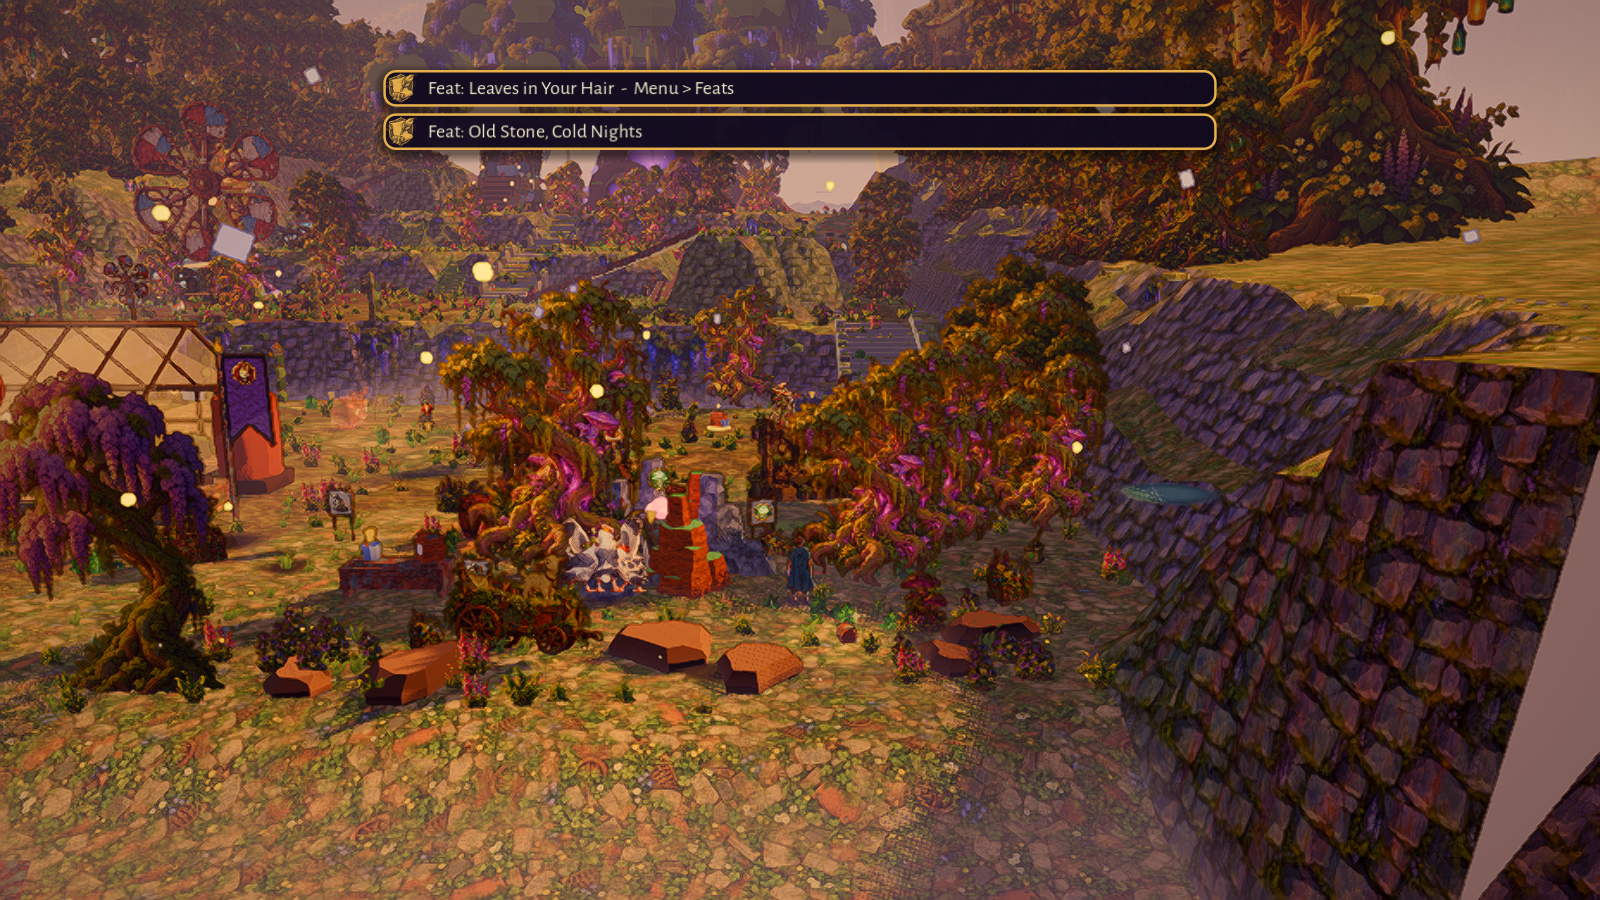
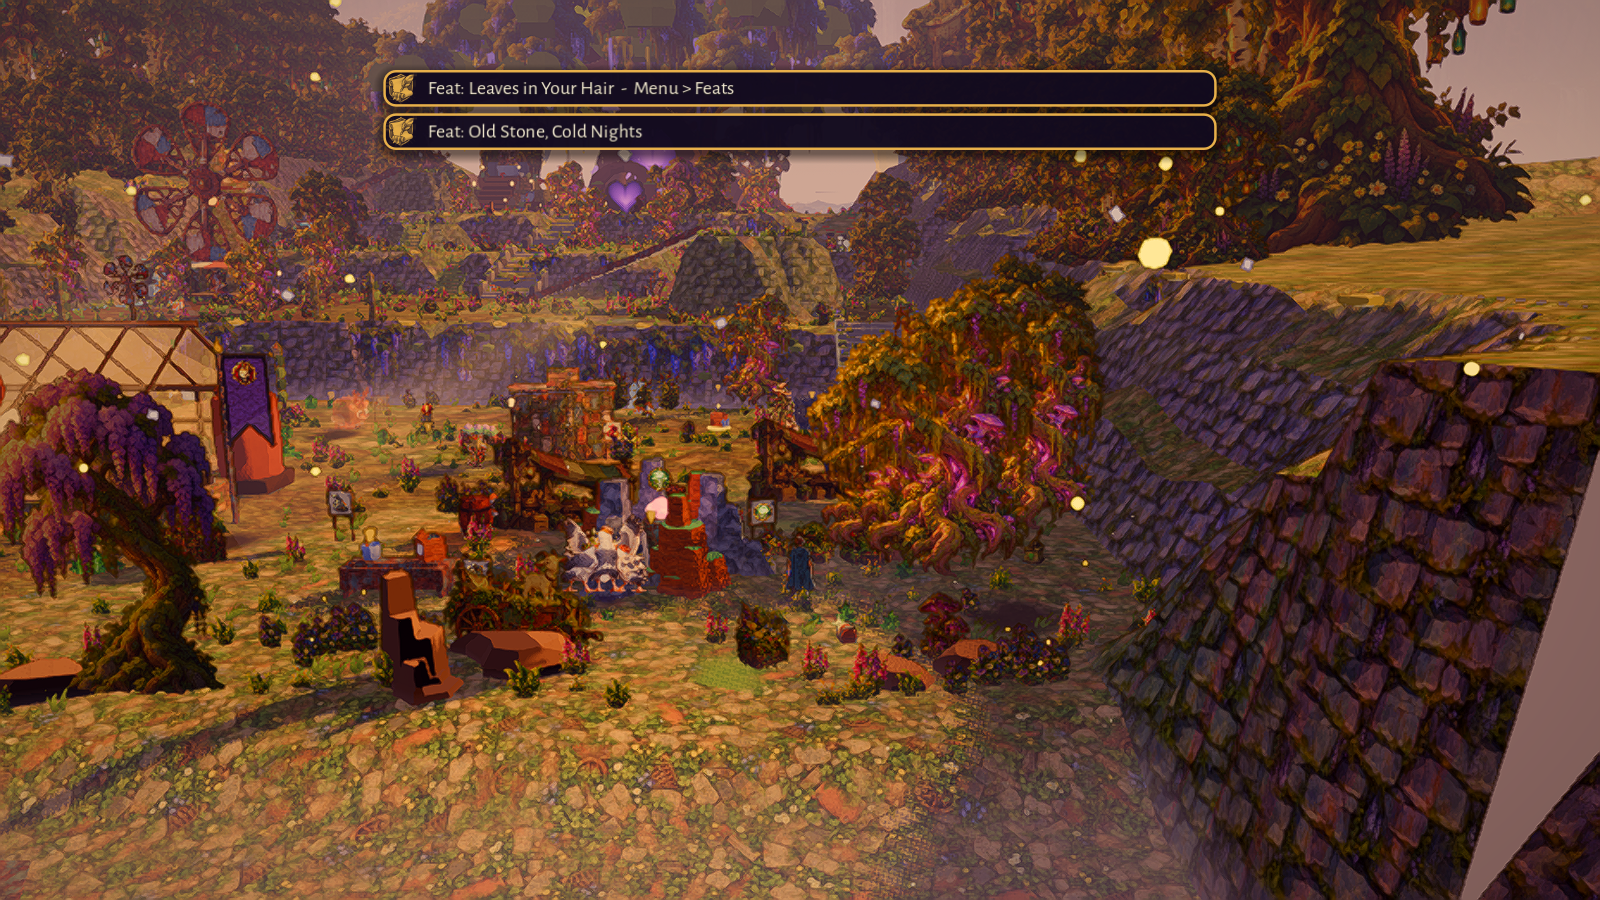
Fable Nov 15b, Part 5: the fridge chest's nook keeps the Dump's clearances (the rocks, bush and mushrooms stand along the south rim, 5.5 m clear of the lever and the shrine and 1.9 m clear of the chest: the full run's one failure); inbox 'Fable Nov 15b'

diff --git a/docs/prompts/chatgpt_batch16.md b/docs/prompts/chatgpt_batch16.md
@@ -1,4 +1,4 @@
-Batch 16 for my cozy-fantasy deckbuilder RPG "The Wayward Path". Make all the images below, one at a time, without stopping to ask me questions. Save each one as a PNG named exactly as given in **bold**.
+Batch 16 for my cozy-fantasy deckbuilder RPG "The Wayward Path". Make all 23 items below (46 images in all), one at a time, without stopping to ask me questions. Save each one as a PNG named exactly as given in **bold**.
 
 I've attached reference images. Each reference's filename starts with the item number it belongs to (for example, 04_scuff__... is for item 4).
 
@@ -66,12 +66,14 @@ House style for everything: painted cozy-fantasy game art, soft visible brushwor
 20. **DNA-PROP-CRATES** (512x512) and **DNA-PROP-CABINET-TIPPED** (768x512), both transparent, front three-quarter view, in the grey-green office style of ref 20 (the cabinet and the filing tower; the screenshot shows the rows they stand in).
    - CRATES: a neat stack of three grey archive crates with brass corner caps and a blank label;
    - CABINET-TIPPED: a grey-green filing cabinet lying on its side, two drawers slid open, papers spilling out.
-21. **UI-PACK-GILDED-N** (512x768, transparent). A Necrocrat version of the gilded foil pack in ref 21 UI-PACK-GILDED: the same shape, crimped ends, gold foil and cream centre stripe.
+21. **UI-PACK-GILDED-N** (1024x1536, transparent). A Necrocrat version of the gilded foil pack in ref 21 UI-PACK-GILDED: the same shape, crimped ends, gold foil and cream centre stripe.
    - The round medallion in the middle shows the Necrocrat Path icon (ref 21 ICON-ENERGY-N): a pale skull facing front, wrapped in green ghost-flame, on a dark slate disc, **fully inside the circle**. No quill. Ref 21 "current" shows the pack as it is now, with the wrong skull-and-quill icon.
    - The small repeating pattern on the gold foil uses tiny skulls in ghost-flame instead of dumbbells.
-22. **UI-PACK-GILDED-G** and **UI-PACK-GILDED-R** (512x768 each, transparent). The same gilded foil pack as item 21, for the Gourmand and the Refusemancer (added by Fable Nov 15: the one gilded wrapper carries dumbbells on every Path's pack).
+22. **UI-PACK-GILDED-G** and **UI-PACK-GILDED-R** (1024x1536 each, transparent). The same gilded foil pack as item 21 (ref 22 UI-PACK-GILDED), for the Gourmand and the Refusemancer.
    - G: the small repeating pattern on the gold foil is tiny chef's hats; R: tiny leaves inside recycling arrows. No dumbbells.
-   - The round medallion can stay a plain dark disc inside its gold ring: the game draws the Path icon on it.
-23. **UI-PACK-N** and **UI-PACK-R** (512x768 each, transparent), repainted exactly as they are (refs: the current files), with one change each:
+   - The round medallion shows that Path's icon (ref 22 ICON-ENERGY-G / -R), fully inside the gold ring.
+23. **UI-PACK-N** and **UI-PACK-R** (1024x1536 each, transparent). Repaint ref 23 UI-PACK-N and UI-PACK-R exactly as they are, with one change each:
    - UI-PACK-N: the medallion shows the Necrocrat icon (ICON-ENERGY-N: a pale skull facing front, wrapped in green ghost-flame, on a dark slate disc), fully inside the gold ring. No quill, no scroll.
    - UI-PACK-R: the medallion shows the Refusemancer icon (ICON-ENERGY-R: one green leaf inside three rust-orange recycling arrows, on a mossy green disc), fully inside the gold ring.
+
+When all 46 images are done, put them in one zip.

diff --git a/docs/overnight_inbox.md b/docs/overnight_inbox.md
@@ -4,6 +4,32 @@ Leave instructions here for the overnight run (one per line). The run reads this
 
 Older open questions (Oct 17 overnight, the rebalance, the v0.4.0 playtest build) are in `docs/overnight/inbox_archive.md`.
 
+## Fable Nov 15b - yours to decide (the safest choice was taken)
+
+Brief: `docs/prompts/fable_nov15_hour.md`. Report: top of `docs/overnight_report.md`. Tag `pre-fable-nov15b`.
+
+1. **The "wooden block you can walk through" was the giant root ramp, and I fixed it instead of removing it.** Your screenshot shows
+   the ramp from the farm terrace up to the compost terrace (east of the middle stairs). Its bark slab had been tilted the wrong way
+   since it was built: the low end stood a tier up in the air on its rope posts (the brown platform) and the high end was buried, while
+   the walk itself went up the slope through it. It is one of the three ways up, so it stays; it lies on the slope now. Say if you
+   would rather it were stone stairs.
+2. **The "floating door" was the fridge beside the market** (east corner, under the big mushroom tree): from the walk you saw its
+   blank back and its open door, two flat green slabs. Removed; its chest (the Leaf Crown) sits in a nook of rocks, a bush, mushrooms
+   and flowers. Last pass's hay bale and hollow log were neither of your two things; they stay removed.
+3. **Compostella's statue stood inside the Dump's Rift Station.** The statue shots for Part 3 found it: the default spot was one metre
+   from the station, so the pillar of light shone through the stone figure. It stands in the open plaza now, at (44.5, 126.5),
+   between the station and the greenhouse. Say if you want it elsewhere.
+4. **UI scale: the three screens are held at 100 %, not rebuilt.** The Wardrobe, the Card Packs page and the Deck Station fill the
+   whole 1920x1080 canvas, so there is nothing larger that fits; at 115 % and 130 % they now look as they do at 100 % (nothing
+   cropped) while every other screen grows. Making them truly bigger means giving each a scrolling layout; say if you want that.
+5. **The Buffet's walk smoke had two stale steps** (Odalys moved on Nov 10; the heal table's run-up started behind the statue). Both
+   were faults of the smoke, not the zone; the smoke is fixed and passes.
+6. **The fair stage on the farm terrace** (beside the trash chute) still has plain-colour blocks: a flat blue banner and four flat
+   sorting bins. Not on your list and not touched; it would be a small Batch 16 row or a kit re-dress.
+7. **A slip of mine:** one test command ran the whole suite in a single process for a few minutes before I stopped it (the
+   `-gconfig=` flag was missing). Nothing was changed by it in the repo; if your own autosave looks odd, that is why (the known
+   GUT-writes-the-real-autosave gotcha).
+
 ## Fable Nov 15 - yours to decide (the safest choice was taken)
 
 Brief: `docs/prompts/fable_nov15_fixes.md`. Report: top of `docs/overnight_report.md`. Tag `pre-fable-nov15`. Part 5 (Batch 16) was
